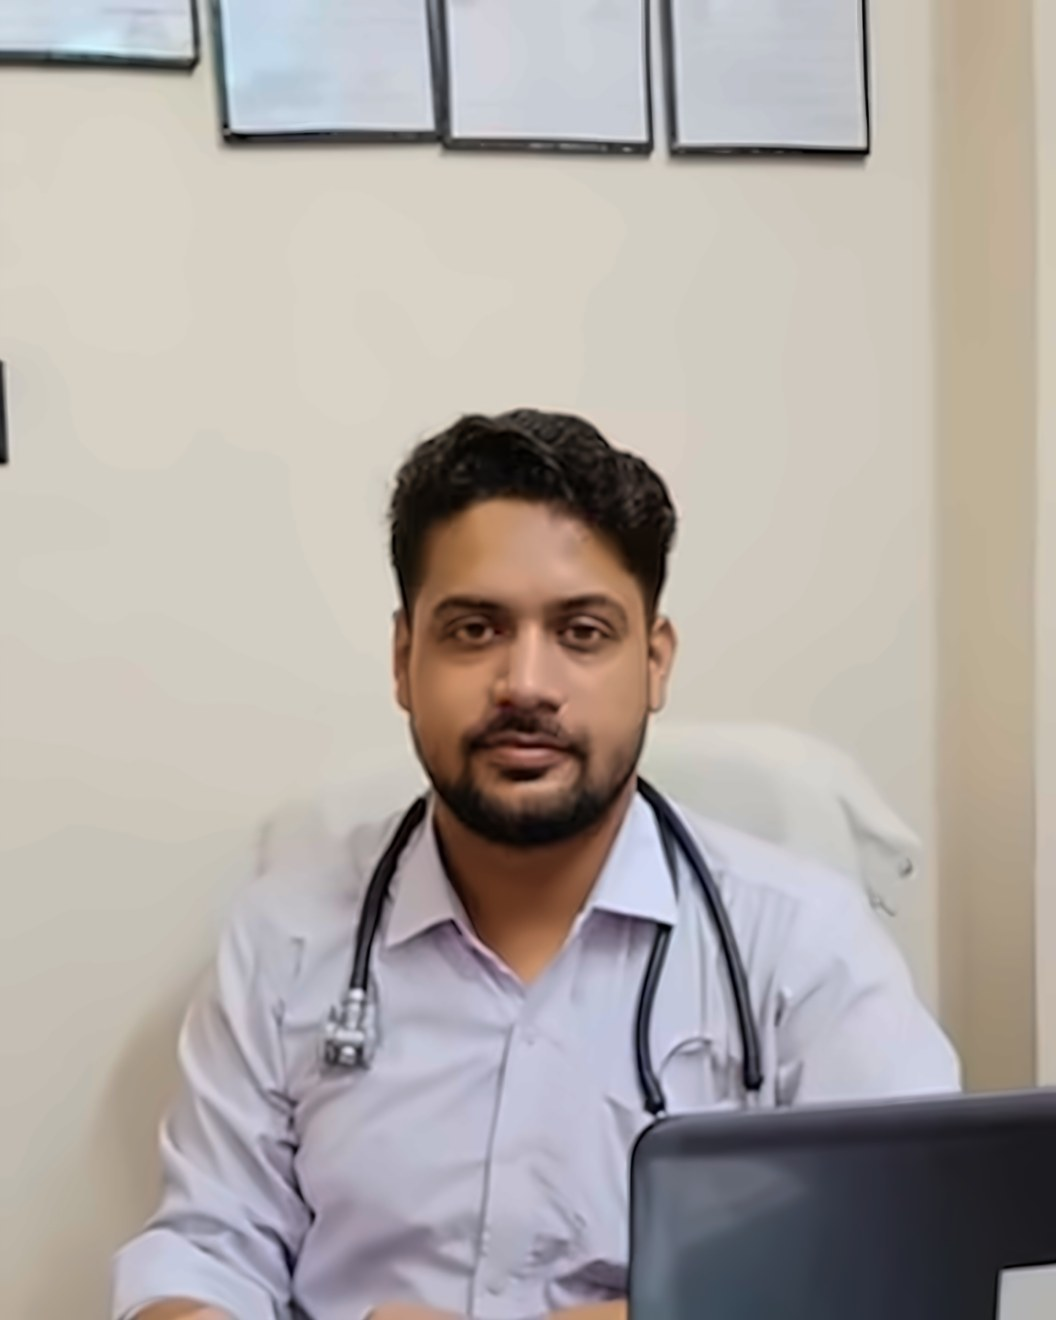
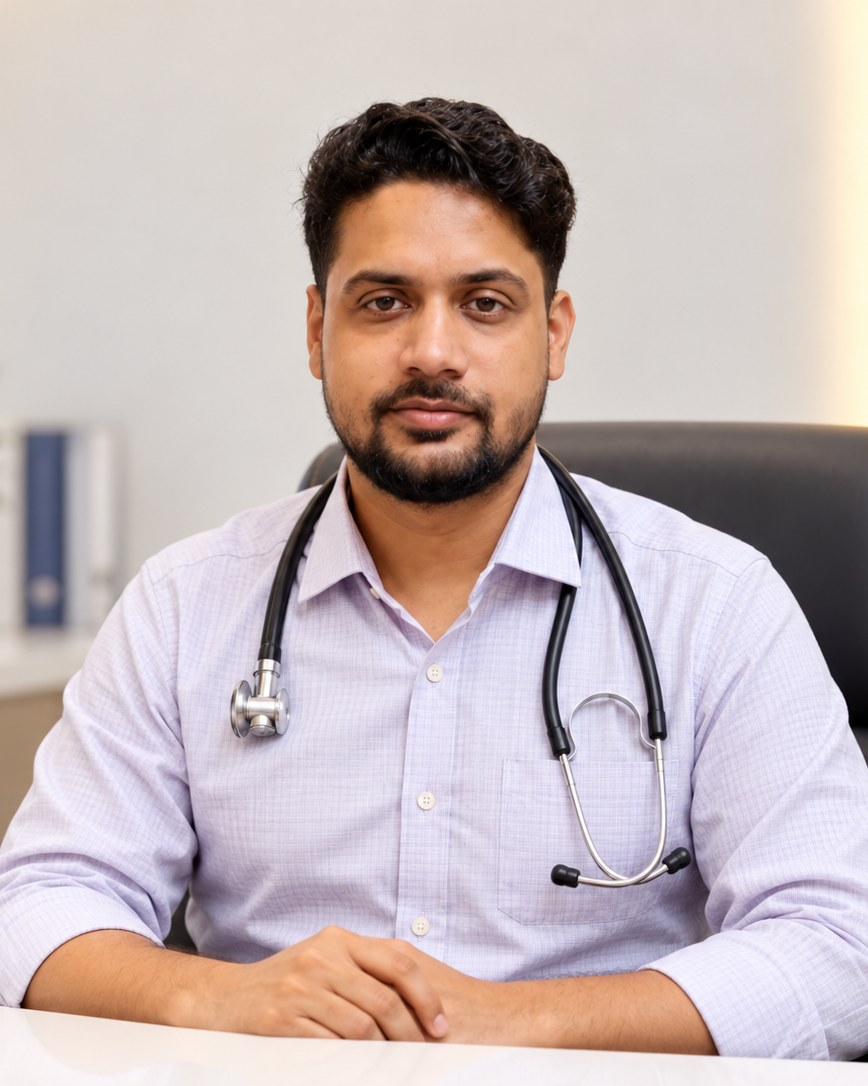
Replace Dr. Amit Raj Sharma portrait with the client-supplied photo

diff --git a/src/lib/data.ts b/src/lib/data.ts
@@ -170,7 +170,7 @@ export const DOCTORS: Doctor[] = [
     expertise: "Asthma, COPD, bronchitis, tuberculosis, chest infections, breathlessness.",
     specialities: ["chest-respiratory"],
     portrait: "/images/dr-amit-raj-sharma.jpg",
-    portraitPosition: "50% 45%",
+    portraitPosition: "50% 8%",
   },
   {
     slug: "dr-nitish-gupta",
